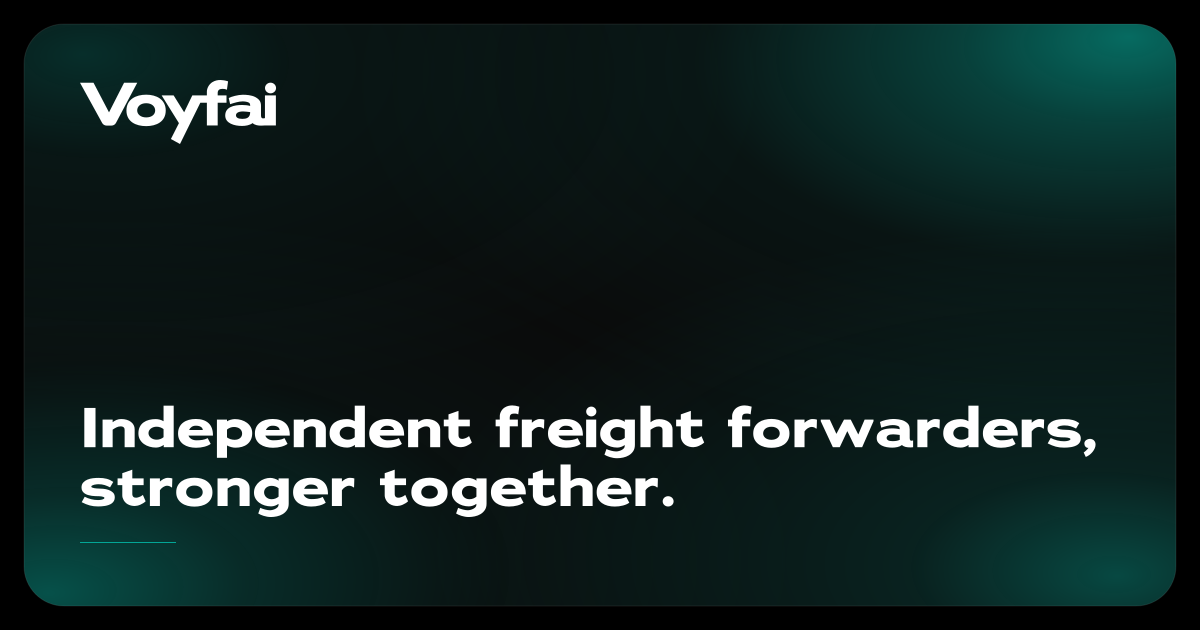
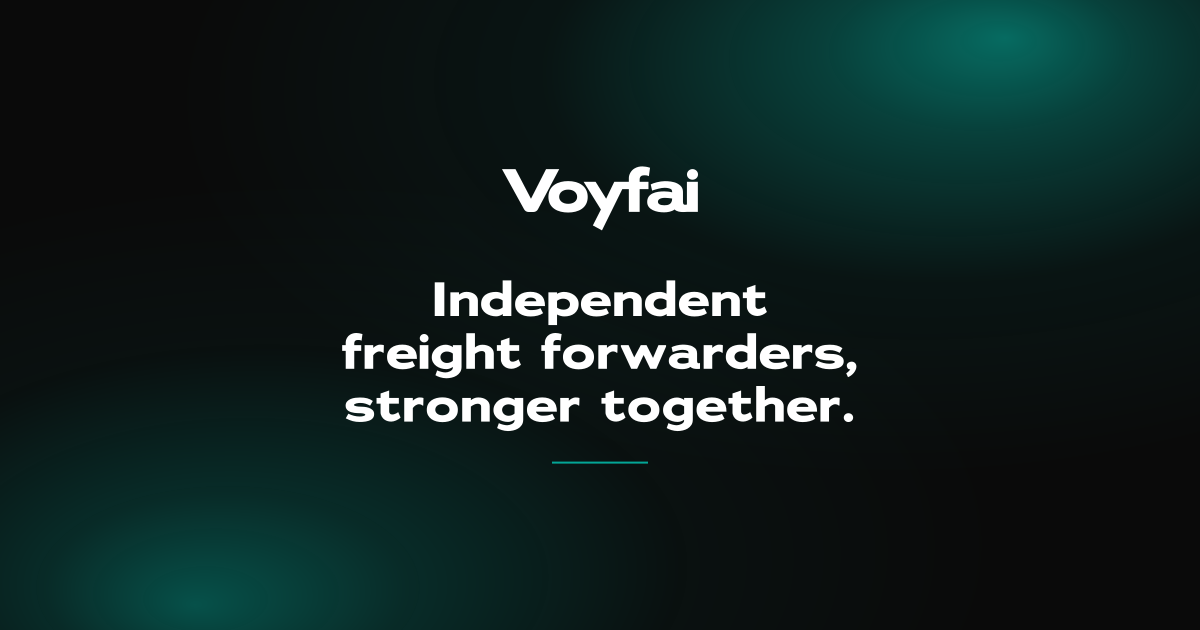
Make OG share card survive the square center-crop
Apple/iMessage-style rich links center-crop the 1200x630 card to its
middle 630px, which deleted the left-aligned wordmark and sliced the
headline mid-word. Center the wordmark + headline + hairline, re-wrap
the headline to 3 phrase-clean lines (48px, <=516px/line) so the full
statement fits the central safe zone, pull the teal hazes inward so the
cropped square isn't flat dark green, and bump the hairline to 2px so it
survives feed downscaling.

diff --git a/scripts/generate-icons.js b/scripts/generate-icons.js
@@ -4,6 +4,12 @@
 // the OG asset is shown once per share and is the brand's single allowed
 // "radial teal haze" moment, here pushed to two stops at the user's
 // explicit direction. Do not extend this pattern to other surfaces.
+//
+// 2026-06-10: composition centered (was left-aligned) and the headline
+// re-wrapped to 3 phrase-clean lines, so the card survives the square
+// center-crop that Apple/iMessage-style rich-link previews apply. The
+// central 630px safe zone now holds the wordmark + full headline; the
+// hazes were pulled inward so the cropped square isn't flat dark green.
 
 import { readFileSync, writeFileSync } from "node:fs";
 import { resolve, dirname } from "node:path";
@@ -23,12 +29,13 @@ const WHITE = "#FFFFFF";
 
 const W = 1200;
 const H = 630;
-const PAD = 80;
 
 const adrianna = opentype.loadSync(resolve(pub, "AdriannaExtended-Bold.ttf"));
 
-const headline = ["Independent freight forwarders,", "stronger together."];
-const HEADLINE_SIZE = 56;
+// 3-line wrap keeps each phrase whole AND fits the central 630px square
+// crop (safe text width ~550px). Each line measures ≤ 516px at 48px.
+const headline = ["Independent", "freight forwarders,", "stronger together."];
+const HEADLINE_SIZE = 48;
 const TRACKING = -0.02;
 
 function textPath(font, text, size, x, y) {
@@ -66,35 +73,60 @@ const WORDMARK_VB_H = 142;
 const wordmarkScale = WORDMARK_HEIGHT / WORDMARK_VB_H;
 const wordmarkWidth = WORDMARK_VB_W * wordmarkScale;
 
-const ascent = (adrianna.ascender / adrianna.unitsPerEm) * HEADLINE_SIZE;
-const lineHeight = HEADLINE_SIZE * 1.05;
+const CX = W / 2;
+const capHeight =
+  ((adrianna.tables.os2 && adrianna.tables.os2.sCapHeight) ||
+    adrianna.unitsPerEm * 0.7) /
+  adrianna.unitsPerEm *
+  HEADLINE_SIZE;
+const lineHeight = HEADLINE_SIZE * 1.1;
 
+// Center-crop safe zone: rich-link previews crop to the central H×H (630px)
+// square, so warn if any line would spill past ~550px of usable width there.
+const SAFE_W = 550;
+
+// Vertical rhythm, top-to-bottom: wordmark, gap, 3 headline lines, gap, hairline.
+const GAP_WORDMARK = 52;
+const GAP_HAIRLINE = 40;
 const HAIRLINE_W = 96;
-const HAIRLINE_Y = H - PAD - 8;
-const lastBaseline = HAIRLINE_Y - 36;
-const firstBaseline = lastBaseline - lineHeight * (headline.length - 1);
+const HAIRLINE_H = 2;
 
+const headlineBlockH = capHeight + lineHeight * (headline.length - 1);
+const blockH =
+  WORDMARK_HEIGHT + GAP_WORDMARK + headlineBlockH + GAP_HAIRLINE + HAIRLINE_H;
+const blockTop = (H - blockH) / 2;
+
+const wordmarkX = CX - wordmarkWidth / 2;
+const wordmarkY = blockTop;
+
+const firstBaseline = blockTop + WORDMARK_HEIGHT + GAP_WORDMARK + capHeight;
 const lines = headline.map((text, i) => {
+  const width = measure(adrianna, text, HEADLINE_SIZE);
   const baseline = firstBaseline + i * lineHeight;
-  return textPath(adrianna, text, HEADLINE_SIZE, PAD, baseline);
+  return textPath(adrianna, text, HEADLINE_SIZE, CX - width / 2, baseline);
 });
 
+const lastBaseline = firstBaseline + lineHeight * (headline.length - 1);
+const HAIRLINE_Y = lastBaseline + GAP_HAIRLINE;
+
 for (const [i, line] of lines.entries()) {
-  if (line.width > W - PAD * 2) {
-    console.warn(`Line ${i + 1} too wide: ${line.width.toFixed(0)}px > ${W - PAD * 2}px`);
+  if (line.width > SAFE_W) {
+    console.warn(
+      `Line ${i + 1} spills the square safe zone: ${line.width.toFixed(0)}px > ${SAFE_W}px`,
+    );
   }
 }
 
 const svg = `<?xml version="1.0" encoding="UTF-8"?>
 <svg xmlns="http://www.w3.org/2000/svg" width="${W}" height="${H}" viewBox="0 0 ${W} ${H}" role="img" aria-label="Voyfai — independent freight forwarders, stronger together">
   <defs>
-    <radialGradient id="hazeBright" cx="90%" cy="10%" r="62%" fx="96%" fy="2%">
+    <radialGradient id="hazeBright" cx="74%" cy="16%" r="60%" fx="84%" fy="6%">
       <stop offset="0%" stop-color="${TEAL}" stop-opacity="0.62"/>
       <stop offset="22%" stop-color="${TEAL}" stop-opacity="0.34"/>
       <stop offset="55%" stop-color="${TEAL}" stop-opacity="0.07"/>
       <stop offset="100%" stop-color="${TEAL}" stop-opacity="0"/>
     </radialGradient>
-    <radialGradient id="hazeDeep" cx="8%" cy="92%" r="60%" fx="2%" fy="98%">
+    <radialGradient id="hazeDeep" cx="26%" cy="86%" r="58%" fx="16%" fy="96%">
       <stop offset="0%" stop-color="${TEAL_700}" stop-opacity="0.55"/>
       <stop offset="26%" stop-color="${TEAL_700}" stop-opacity="0.26"/>
       <stop offset="60%" stop-color="${TEAL_700}" stop-opacity="0.05"/>
@@ -104,11 +136,11 @@ const svg = `<?xml version="1.0" encoding="UTF-8"?>
   <rect width="${W}" height="${H}" fill="${INK}"/>
   <rect width="${W}" height="${H}" fill="url(#hazeDeep)"/>
   <rect width="${W}" height="${H}" fill="url(#hazeBright)"/>
-  <g transform="translate(${PAD} ${PAD}) scale(${wordmarkScale})">
+  <g transform="translate(${wordmarkX.toFixed(2)} ${wordmarkY.toFixed(2)}) scale(${wordmarkScale})">
     ${wordmarkInner}
   </g>
   ${lines.map((l) => `<path d="${l.d}" fill="${WHITE}"/>`).join("\n  ")}
-  <rect x="${PAD}" y="${HAIRLINE_Y}" width="${HAIRLINE_W}" height="1" fill="${TEAL}"/>
+  <rect x="${(CX - HAIRLINE_W / 2).toFixed(2)}" y="${HAIRLINE_Y.toFixed(2)}" width="${HAIRLINE_W}" height="${HAIRLINE_H}" fill="${TEAL}"/>
 </svg>
 `;
 
